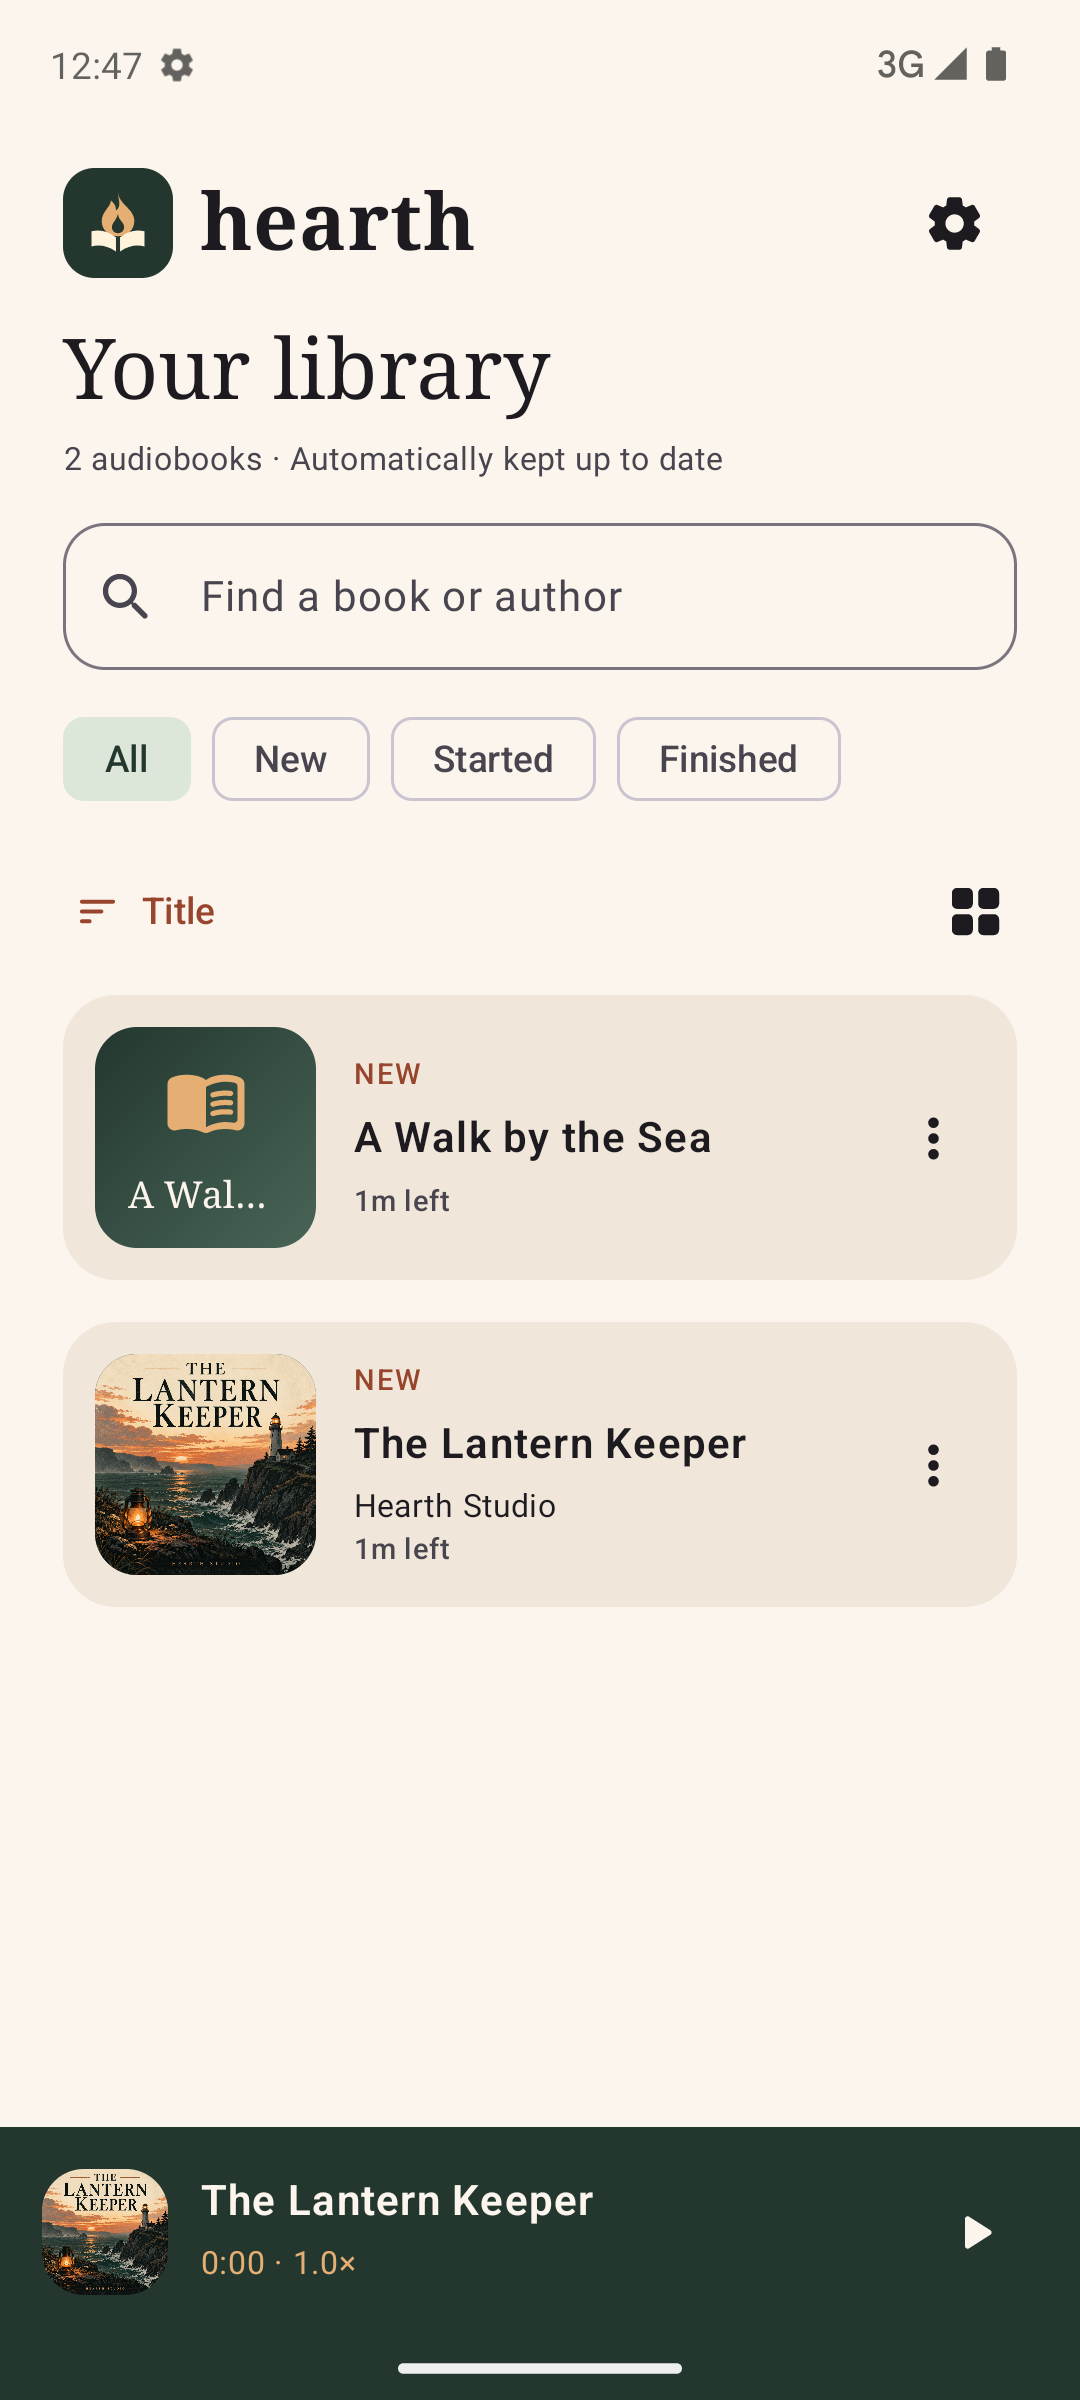
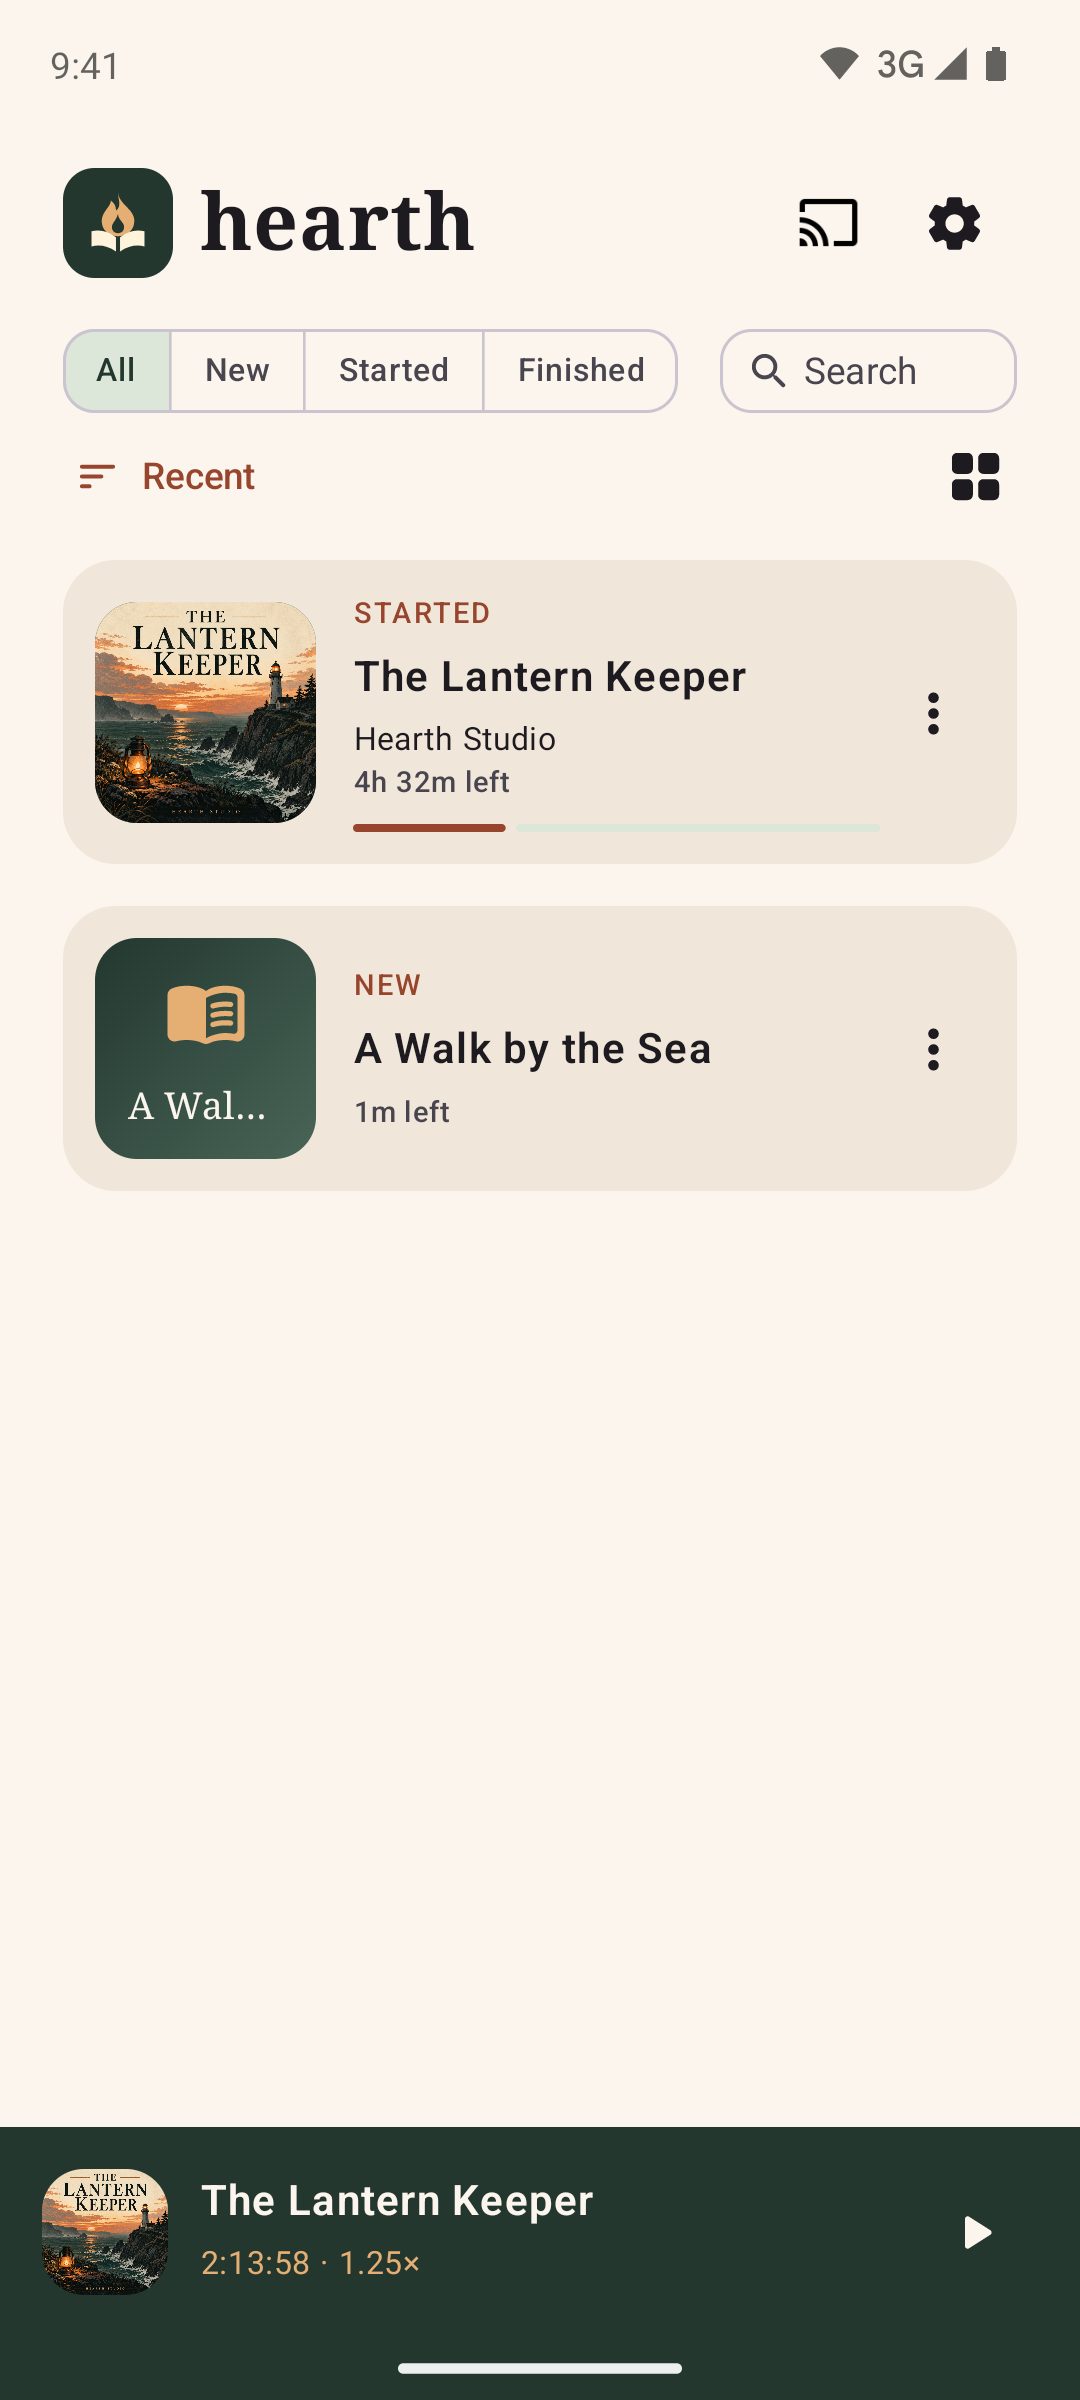
Refresh README screenshots and add the Google Play badge.

diff --git a/README.md b/README.md
@@ -2,7 +2,9 @@
 
 An offline audiobook player for Android, written in Kotlin and Jetpack Compose. Organize your library, follow chapter progress, and pick up where you left off.
 
-**Coming soon to Google Play.**
+<a href="https://play.google.com/store/apps/details?id=dev.hearth.audio">
+  <img src="docs/google-play-badge.png" alt="Get it on Google Play" width="200" />
+</a>
 
 [Privacy policy](https://rmessenger.github.io/hearth/privacy.html)
 
@@ -15,7 +17,7 @@ An offline audiobook player for Android, written in Kotlin and Jetpack Compose. 
 
 ## Use it
 
-Install the signed APK, open Hearth, and choose your audiobook folder. Put each book in a subfolder; author/book nesting is supported. Folder JPG/PNG covers and embedded artwork are recognized. No account is required. Local playback works offline; optional Chromecast playback uses network access.
+Install Hearth from [Google Play](https://play.google.com/store/apps/details?id=dev.hearth.audio), open the app, and choose your audiobook folder. Put each book in a subfolder; author/book nesting is supported. Folder JPG/PNG covers and embedded artwork are recognized. No account is required. Local playback works offline; optional Chromecast playback uses network access.
 
 Opening a book restores its position without starting playback; tap Play when ready. Returning to a book that is already playing keeps playback running.
 
